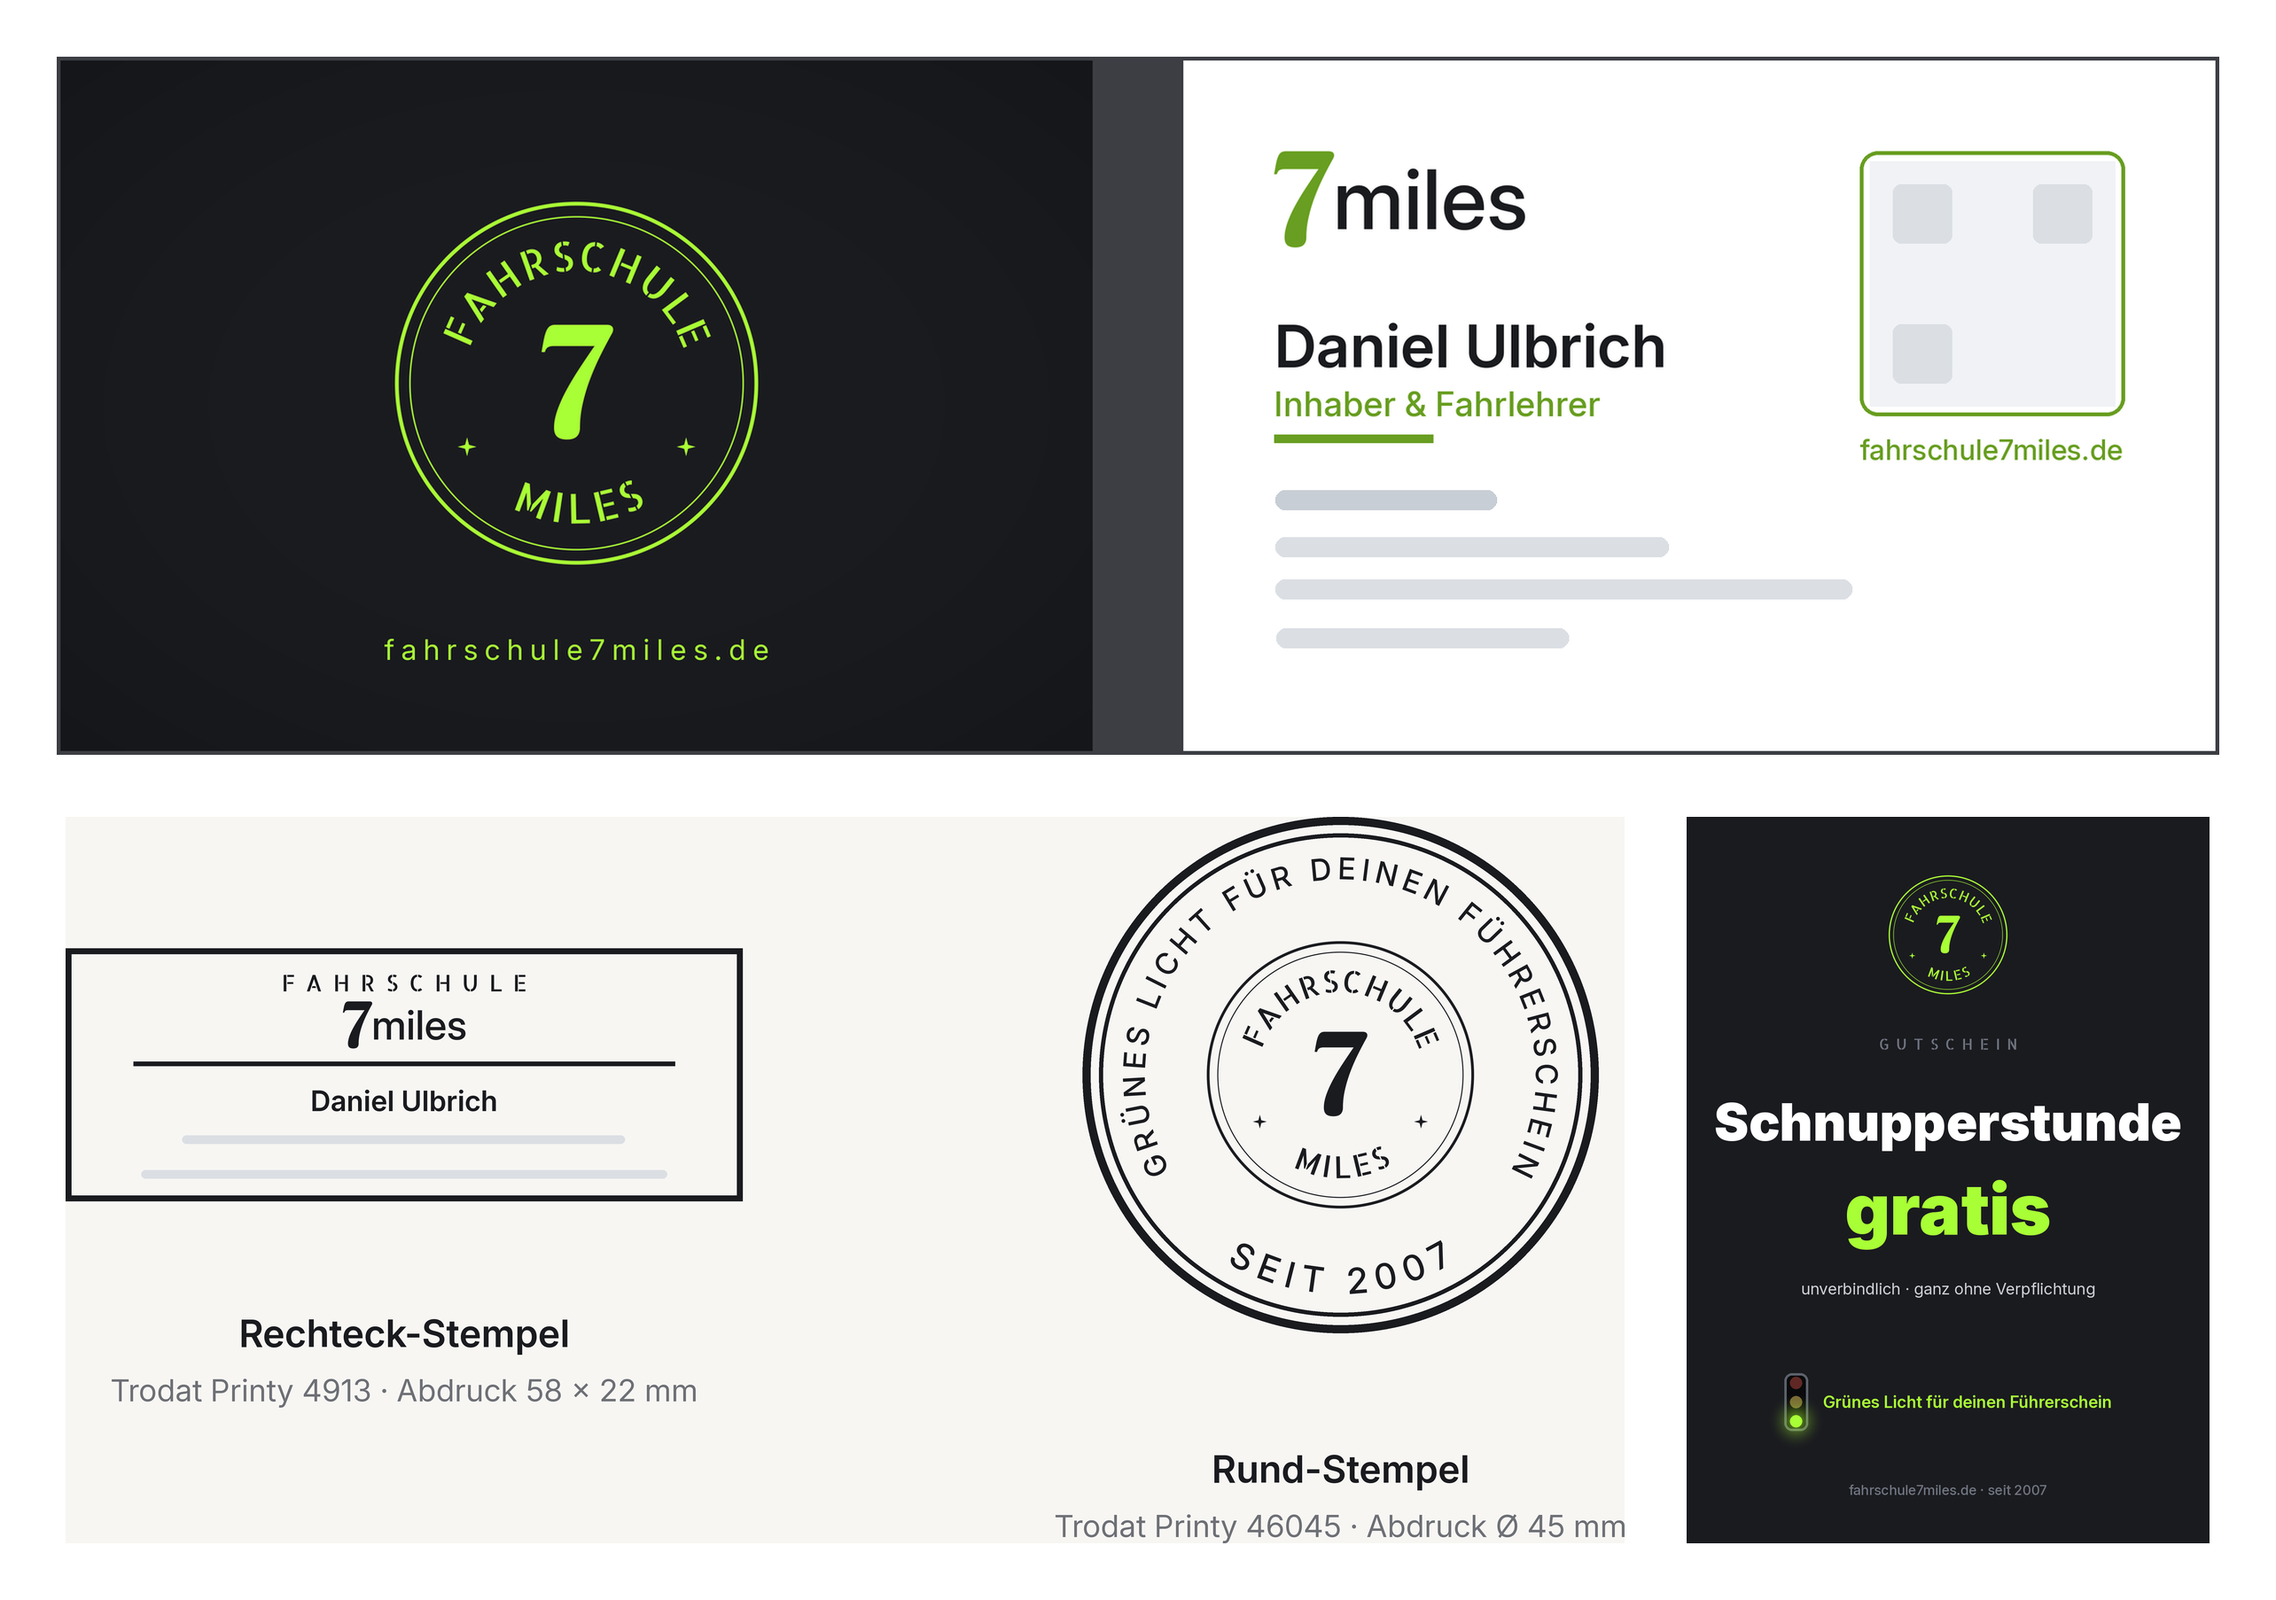
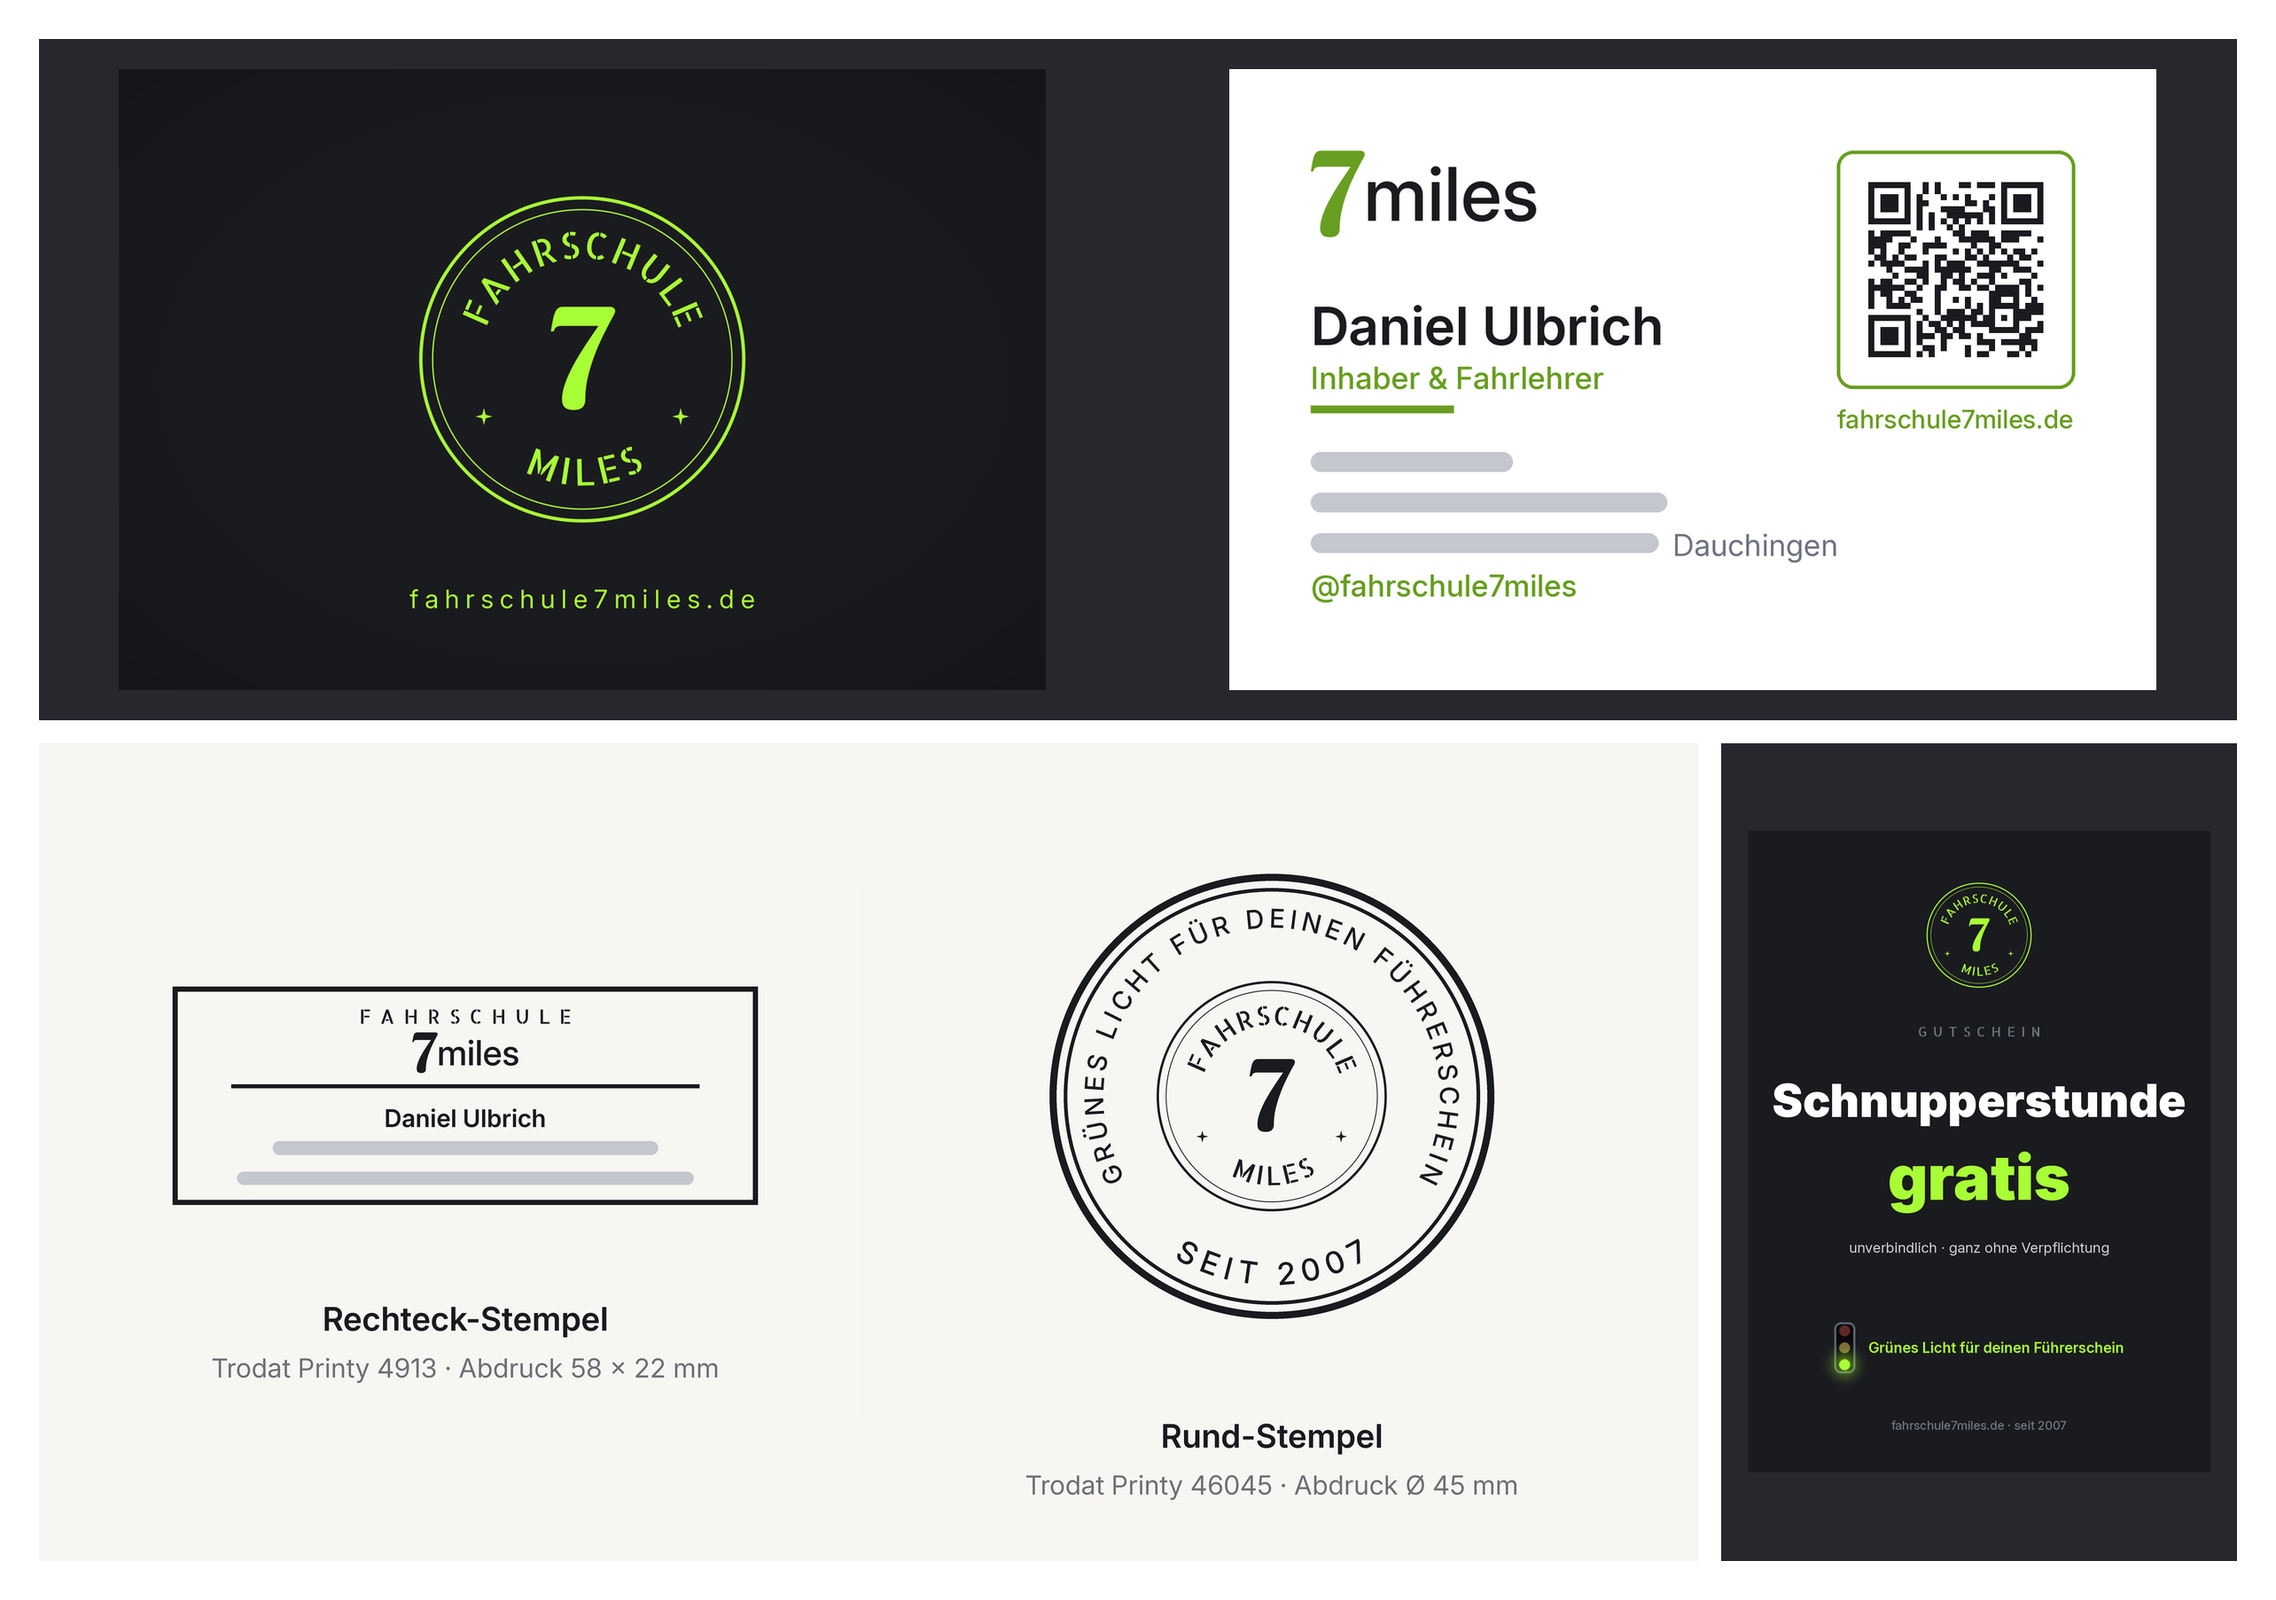
Drucksachen-Tafel neu gebaut, Kompositions-Skript abgelegt
Beide Stempel sitzen in gleich breiten Zellen und sind darin gemittet;
vorher klebte der Rechteck-Stempel am linken Rand, waehrend der Rund-
Stempel mittig stand - zwei Bezugsachsen in einem Feld.

Die Vorgaenger-Kachel vom 21.08. hatte kein Quellskript; eine Aus-
richtungskorrektur war deshalb nur durch Neubau moeglich. Das Skript
liegt jetzt unter scripts/ und baut die Tafel aus den Original-Proofs.

Die Kontaktdaten auf Visitenkarte und Rechteck-Stempel kommen als
Mockup-Balken aus den Showcase-Schaltern der 7miles-Skripte (V1-Regel),
nicht mehr aus einem uebermalten Bild. Der URL-QR bleibt scanbar
(Biz-Ruling: Zeiger bleiben, Abtippbares wird Platzhalter).

Changed region(s): [[0.0, 0.0, 0.9969, 0.9922], [0.0312, 0.5891, 0.3427, 0.7752], [0.0935, 0.8062, 0.3115, 0.8992]]

diff --git a/scripts/build_7miles_print_tafel.py b/scripts/build_7miles_print_tafel.py
@@ -1,0 +1,107 @@
+#!/usr/bin/env python3
+# -*- coding: utf-8 -*-
+"""Drucksachen-Tafel fuer die 7miles-Case-Seite (/arbeiten/7miles).
+
+Aufruf ohne Argumente aus dem Repo:  python3 scripts/build_7miles_print_tafel.py
+Die Showcase-Quellen entstehen vorher im 7miles-Projekt mit:
+  VK_SHOWCASE=1      python3 scripts/build_businesscard.py
+  STEMPEL_SHOWCASE=1 python3 scripts/build_stamp.py
+  FLYER_SHOWCASE=1   python3 scripts/build_flyer.py
+
+Setzt die Kachel `7miles-w3-print.png` aus den Original-Proofs zusammen:
+Visitenkarte (Showcase-Rendering, Kontaktdaten als Mockup-Balken),
+beide Stempel-Proofs und die Gutscheinkarte.
+
+Warum es dieses Skript gibt: die Vorgaenger-Kachel vom 21.08.2026 wurde ohne
+Quellskript zusammengesetzt; eine Ausrichtungskorrektur war deshalb nur durch
+Neubau moeglich. Quellskripte immer ablegen.
+
+Eingaben erwartet unter SRC (Projekt "Fahrschule 7Miles"):
+  assets/print/visitenkarten/showcase/vk_vorderseite_crest.png
+  assets/print/visitenkarten/showcase/vk_daniel_rueckseite.png
+  assets/print/stempel/showcase/stempel_rechteck_vorschau.png
+  assets/print/stempel/showcase/stempel_rund_vorschau.png
+  assets/print/flyer/showcase/gutschein_front.png
+"""
+import os, sys
+from PIL import Image
+
+SRC = sys.argv[1] if len(sys.argv) > 1 else os.path.join(
+    os.path.dirname(os.path.dirname(os.path.abspath(__file__))), "..", "Fahrschule 7Miles")
+OUT = sys.argv[2] if len(sys.argv) > 2 else os.path.join(
+    os.path.dirname(os.path.dirname(os.path.abspath(__file__))),
+    "src", "assets", "showcase", "7miles-w3-print.png")
+
+W, H = 2568, 1806
+ASPHALT = (38, 40, 46)
+CONCRETE = (245, 245, 242)
+WHITE = (255, 255, 255)
+PAD = 44                    # Aussenrand der Tafel
+GAP = 26                    # Abstand zwischen den Feldern
+RADIUS = 10
+
+def load(rel):
+    p = os.path.join(SRC, rel)
+    if not os.path.exists(p):
+        raise SystemExit(f"fehlt: {p}")
+    return Image.open(p).convert("RGB")
+
+def fit(im, bw, bh):
+    """Groesstmoeglich einpassen, Seitenverhaeltnis erhalten."""
+    s = min(bw / im.width, bh / im.height)
+    return im.resize((max(1, int(im.width * s)), max(1, int(im.height * s))), Image.LANCZOS)
+
+def panel(size, fill):
+    return Image.new("RGB", size, fill)
+
+def zentriert(canvas, im, box):
+    """Mittet im in box=(x,y,w,h) — beide Achsen."""
+    x, y, bw, bh = box
+    canvas.paste(im, (int(x + (bw - im.width) / 2), int(y + (bh - im.height) / 2)))
+
+def main():
+    cv = Image.new("RGB", (W, H), WHITE)
+
+    innen_w = W - 2 * PAD
+    oben_h = int((H - 2 * PAD - GAP) * 0.455)
+    unten_h = H - 2 * PAD - GAP - oben_h
+
+    # --- oben: Visitenkarte vorne + hinten auf dunklem Feld -----------------
+    top = panel((innen_w, oben_h), ASPHALT)
+    vk_f = load("assets/print/visitenkarten/showcase/vk_vorderseite_crest.png")
+    vk_b = load("assets/print/visitenkarten/showcase/vk_daniel_rueckseite.png")
+    zell_w = (innen_w - GAP) // 2
+    inner_pad = 34
+    for i, im in enumerate((vk_f, vk_b)):
+        k = fit(im, zell_w - 2 * inner_pad, oben_h - 2 * inner_pad)
+        zentriert(top, k, (i * (zell_w + GAP), 0, zell_w, oben_h))
+    cv.paste(top, (PAD, PAD))
+
+    # --- unten: zwei Stempel auf hellem Feld + Gutschein auf dunklem --------
+    gut_w = int(innen_w * 0.235)
+    stempel_w = innen_w - GAP - gut_w
+    bottom_y = PAD + oben_h + GAP
+
+    st = panel((stempel_w, unten_h), CONCRETE)
+    rect = load("assets/print/stempel/showcase/stempel_rechteck_vorschau.png")
+    rund = load("assets/print/stempel/showcase/stempel_rund_vorschau.png")
+    # zwei gleich breite Zellen, beide Motive in ihrer Zelle gemittet.
+    # Das war der Fehler der Vorgaengerkachel: Rechteck klebte am linken Rand,
+    # Rund stand mittig — zwei verschiedene Bezugsachsen in einem Feld.
+    sp = 26
+    zw = (stempel_w - 2 * sp) // 2
+    zh = unten_h - 2 * sp
+    zentriert(st, fit(rect, zw - 14, zh), (sp, sp, zw, zh))
+    zentriert(st, fit(rund, zw - 14, zh), (sp + zw, sp, zw, zh))
+    cv.paste(st, (PAD, bottom_y))
+
+    gp = panel((gut_w, unten_h), ASPHALT)
+    gut = load("assets/print/flyer/showcase/gutschein_front.png")
+    zentriert(gp, fit(gut, gut_w - 2 * 30, unten_h - 2 * 30), (0, 0, gut_w, unten_h))
+    cv.paste(gp, (PAD + stempel_w + GAP, bottom_y))
+
+    cv.save(OUT, dpi=(144, 144))
+    print("OK ->", OUT, cv.size)
+
+if __name__ == "__main__":
+    main()
